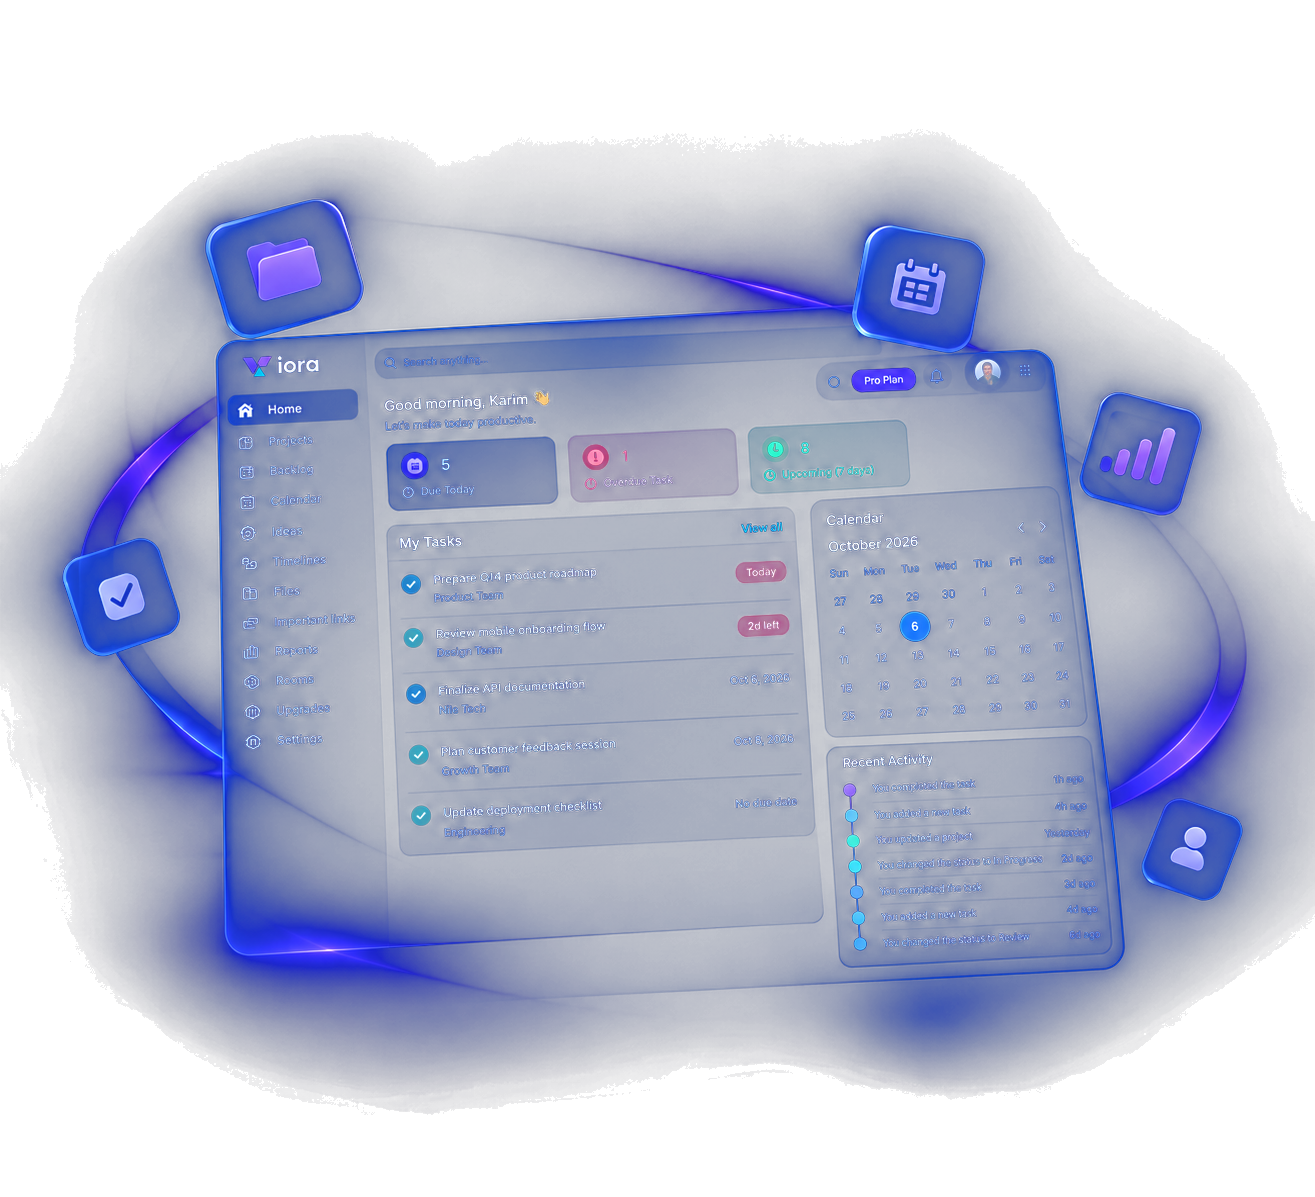
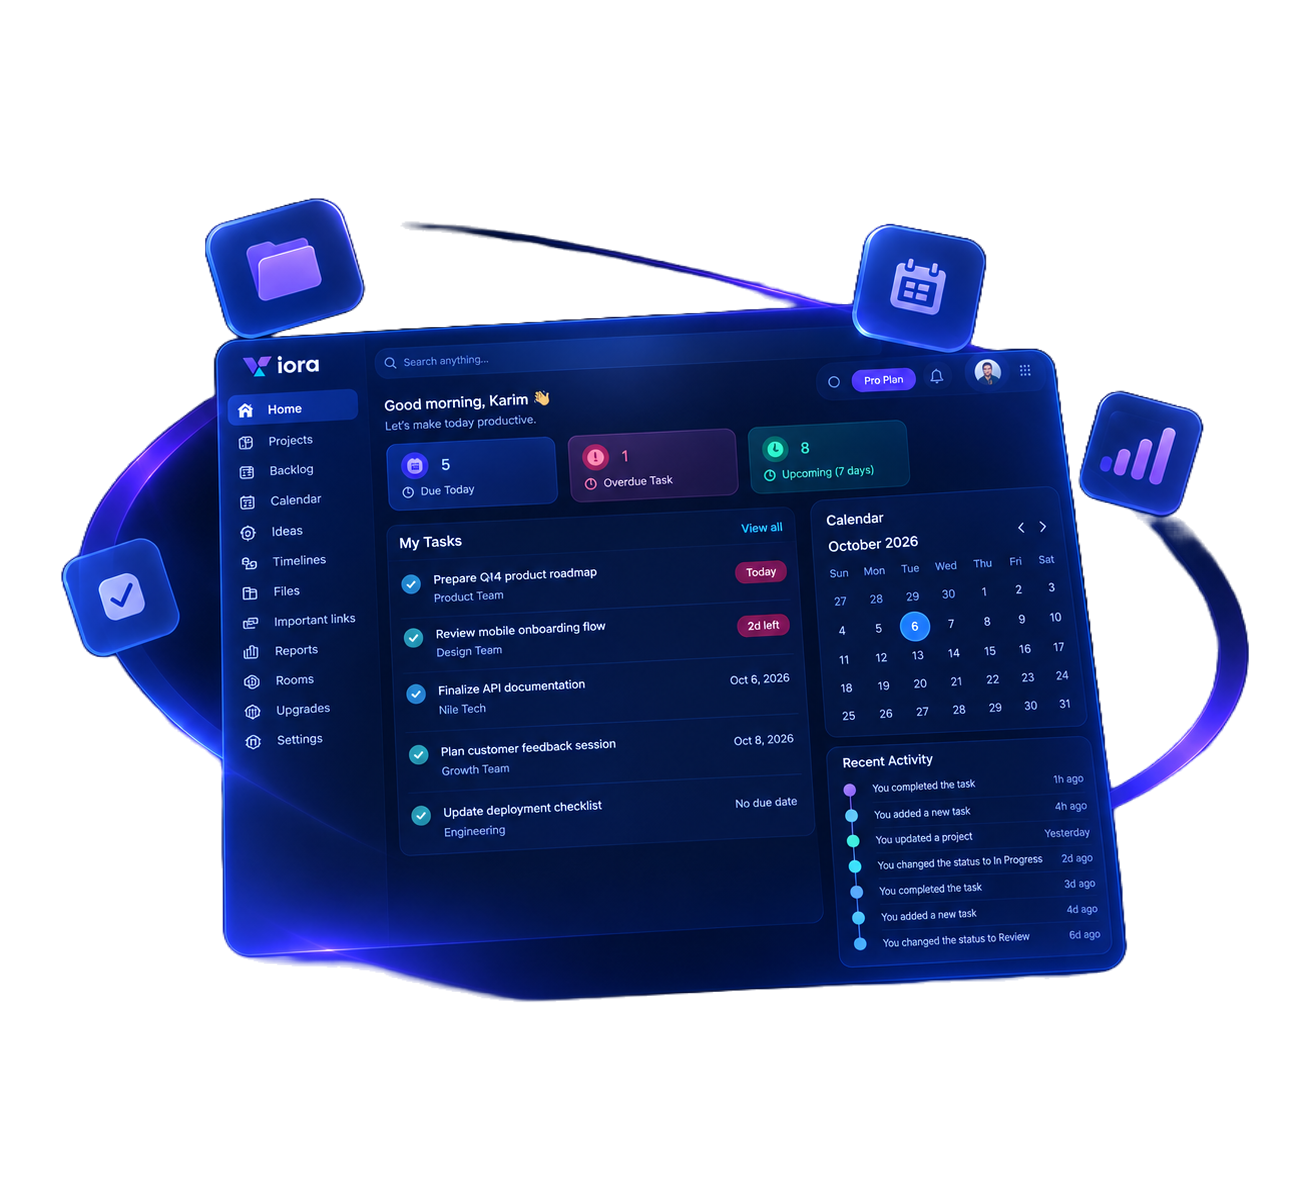
feat: use the cleanly cut login mockups and give the preview more room
The hand-cut light asset lost its white card body along with the backdrop, so
the swapped-in background-removed mockups keep the panel intact; widen the hero
column so the larger preview still has breathing room.

diff --git a/app/login/page.tsx b/app/login/page.tsx
@@ -69,7 +69,7 @@ function GithubMark() {
 function DashboardPreview({ theme }: { theme: Theme }) {
   const src = theme === "light" ? "/login-preview-light.png" : "/login-preview-dark.png";
   return (
-    <div className="login-preview relative mt-8 w-full max-w-[640px]">
+    <div className="login-preview relative mt-8 w-full max-w-[800px]">
       <Image
         src={src}
         alt=""
@@ -270,7 +270,7 @@ function LoginPageInner() {
           <BrandLogo />
         </header>
 
-        <div className="grid flex-1 items-center gap-10 py-6 lg:grid-cols-[minmax(0,1.05fr)_minmax(380px,460px)] lg:gap-16 lg:py-6">
+        <div className="grid flex-1 items-center gap-10 py-6 lg:grid-cols-[minmax(0,1.3fr)_minmax(380px,460px)] lg:gap-16 lg:py-6">
           <section className="relative z-10 order-2 min-w-0 lg:order-1">
             <span className="inline-flex rounded-full bg-[#1D4ED8]/20 px-3 py-1 text-xs font-medium text-ink">
               {t("login.heroBadge")}
